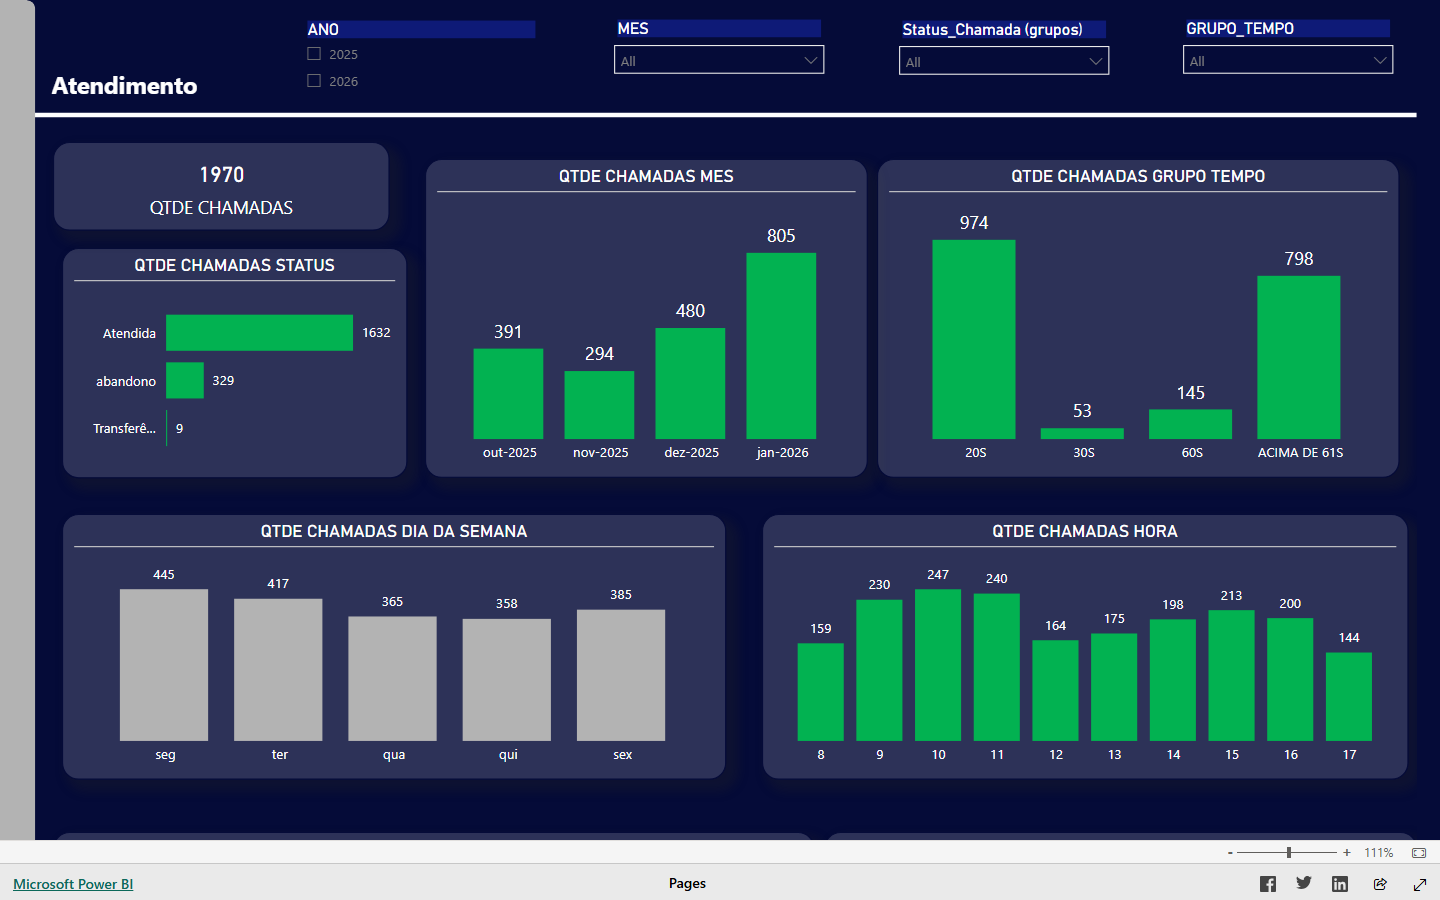
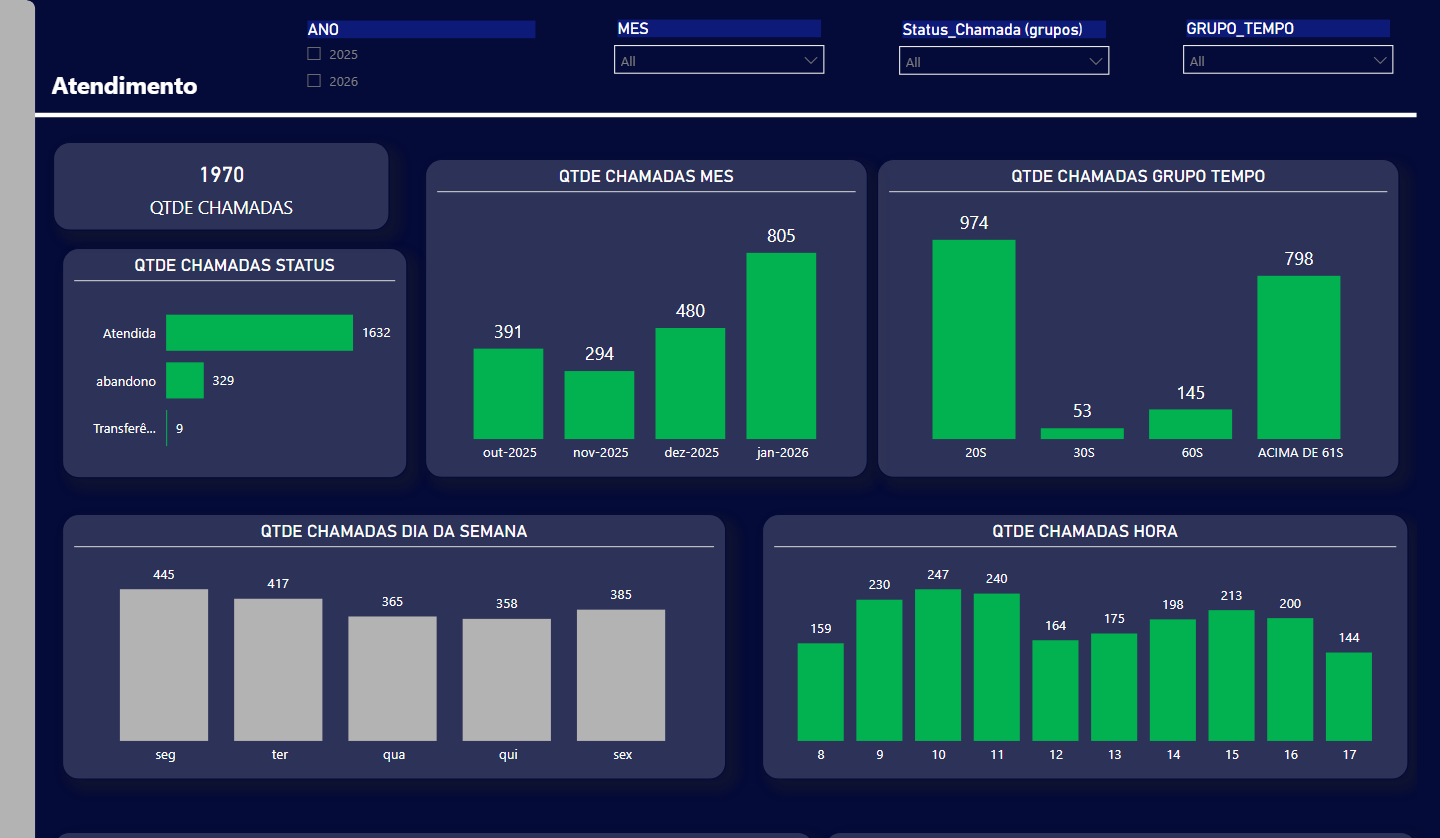
fix: remover barra de rodape e cortar barra de ferramentas inferior das imagens dos dashboards Power BI

diff --git a/powerbi_transporte/index.html b/powerbi_transporte/index.html
@@ -229,7 +229,7 @@
 
         .report-img {
             max-width: 100%;
-            max-height: calc(100vh - 145px);
+            max-height: calc(100vh - 75px);
             object-fit: contain;
             border-radius: 4px;
             box-shadow: 0 10px 40px rgba(0, 0, 0, 0.85);
@@ -468,19 +468,7 @@
                 <button class="control-btn" onclick="resetZoom()" title="Ajustar à Tela"><i class="fa-solid fa-compress"></i></button>
             </div>
 
-            <!-- Bottom Tabs -->
-            <footer class="pbi-bottom-bar">
-                <div class="pbi-tabs-list">
-                    <div class="pbi-tab active">Painel Geral de Frotas</div><div class="pbi-tab ">Eficiência Energética & Diesel</div><div class="pbi-tab ">Custos de Garagens & Facilities</div>
-                </div>
-                <div class="bottom-meta">
-                    <span>Página 1 de 3</span>
-                    <span>&bull;</span>
-                    <span>Modo Executivo C-Level</span>
-                    <span>&bull;</span>
-                    <span style="color:var(--pbi-yellow);"><i class="fa-solid fa-check-circle"></i> Disponibilidade Permanente</span>
-                </div>
-            </footer>
+            
         </main>
     </div>
 

diff --git a/powerbi_agendas/index.html b/powerbi_agendas/index.html
@@ -229,7 +229,7 @@
 
         .report-img {
             max-width: 100%;
-            max-height: calc(100vh - 145px);
+            max-height: calc(100vh - 75px);
             object-fit: contain;
             border-radius: 4px;
             box-shadow: 0 10px 40px rgba(0, 0, 0, 0.85);
@@ -468,19 +468,7 @@
                 <button class="control-btn" onclick="resetZoom()" title="Ajustar à Tela"><i class="fa-solid fa-compress"></i></button>
             </div>
 
-            <!-- Bottom Tabs -->
-            <footer class="pbi-bottom-bar">
-                <div class="pbi-tabs-list">
-                    <div class="pbi-tab active">Capacidade & Agendas Livres</div><div class="pbi-tab ">Ocupação por Especialidade</div><div class="pbi-tab ">Projeção & Ociosidade</div>
-                </div>
-                <div class="bottom-meta">
-                    <span>Página 1 de 3</span>
-                    <span>&bull;</span>
-                    <span>Modo Executivo C-Level</span>
-                    <span>&bull;</span>
-                    <span style="color:var(--pbi-yellow);"><i class="fa-solid fa-check-circle"></i> Disponibilidade Permanente</span>
-                </div>
-            </footer>
+            
         </main>
     </div>
 

diff --git a/powerbi_clinica/index.html b/powerbi_clinica/index.html
@@ -229,7 +229,7 @@
 
         .report-img {
             max-width: 100%;
-            max-height: calc(100vh - 145px);
+            max-height: calc(100vh - 75px);
             object-fit: contain;
             border-radius: 4px;
             box-shadow: 0 10px 40px rgba(0, 0, 0, 0.85);
@@ -468,19 +468,7 @@
                 <button class="control-btn" onclick="resetZoom()" title="Ajustar à Tela"><i class="fa-solid fa-compress"></i></button>
             </div>
 
-            <!-- Bottom Tabs -->
-            <footer class="pbi-bottom-bar">
-                <div class="pbi-tabs-list">
-                    <div class="pbi-tab active">Atendimento & Triagem</div><div class="pbi-tab ">Tempo de Espera & Filas</div><div class="pbi-tab ">Desconexão & Operadores</div>
-                </div>
-                <div class="bottom-meta">
-                    <span>Página 1 de 3</span>
-                    <span>&bull;</span>
-                    <span>Modo Executivo C-Level</span>
-                    <span>&bull;</span>
-                    <span style="color:var(--pbi-yellow);"><i class="fa-solid fa-check-circle"></i> Disponibilidade Permanente</span>
-                </div>
-            </footer>
+            
         </main>
     </div>
 
